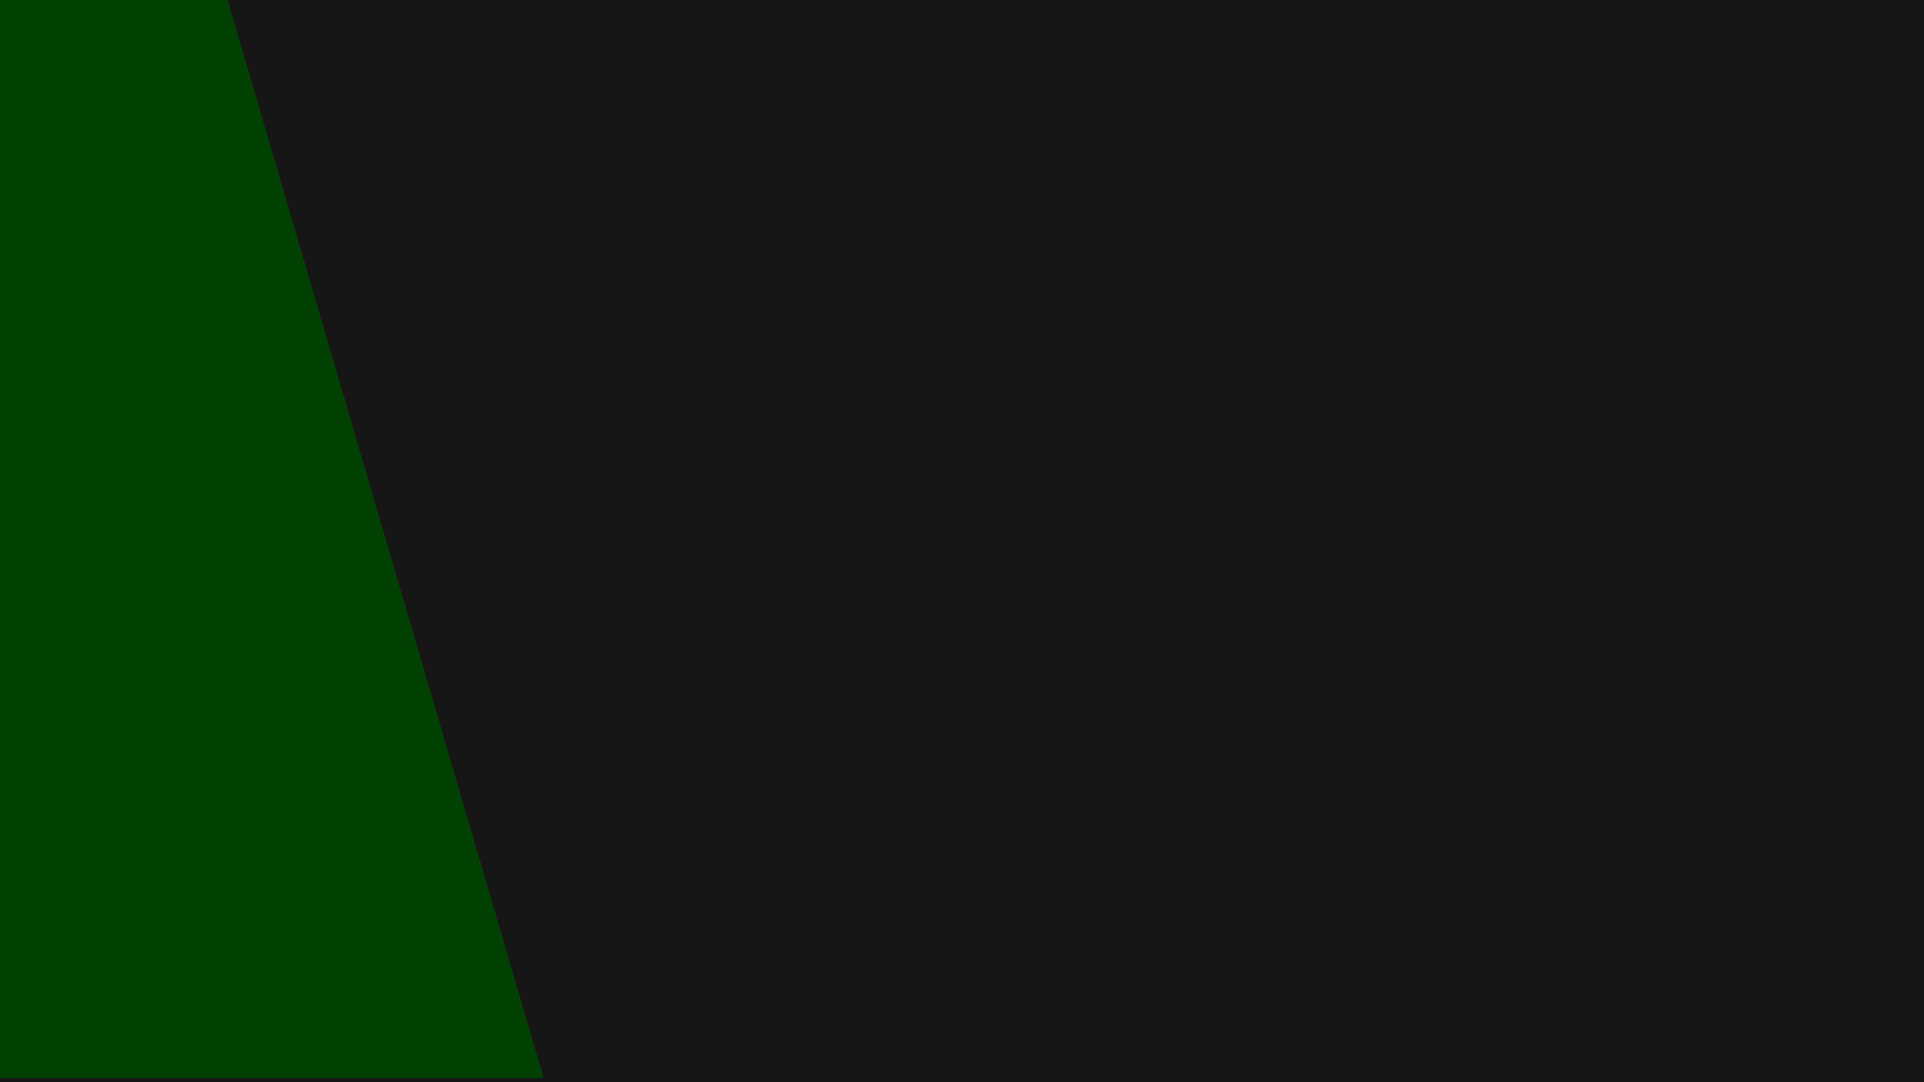
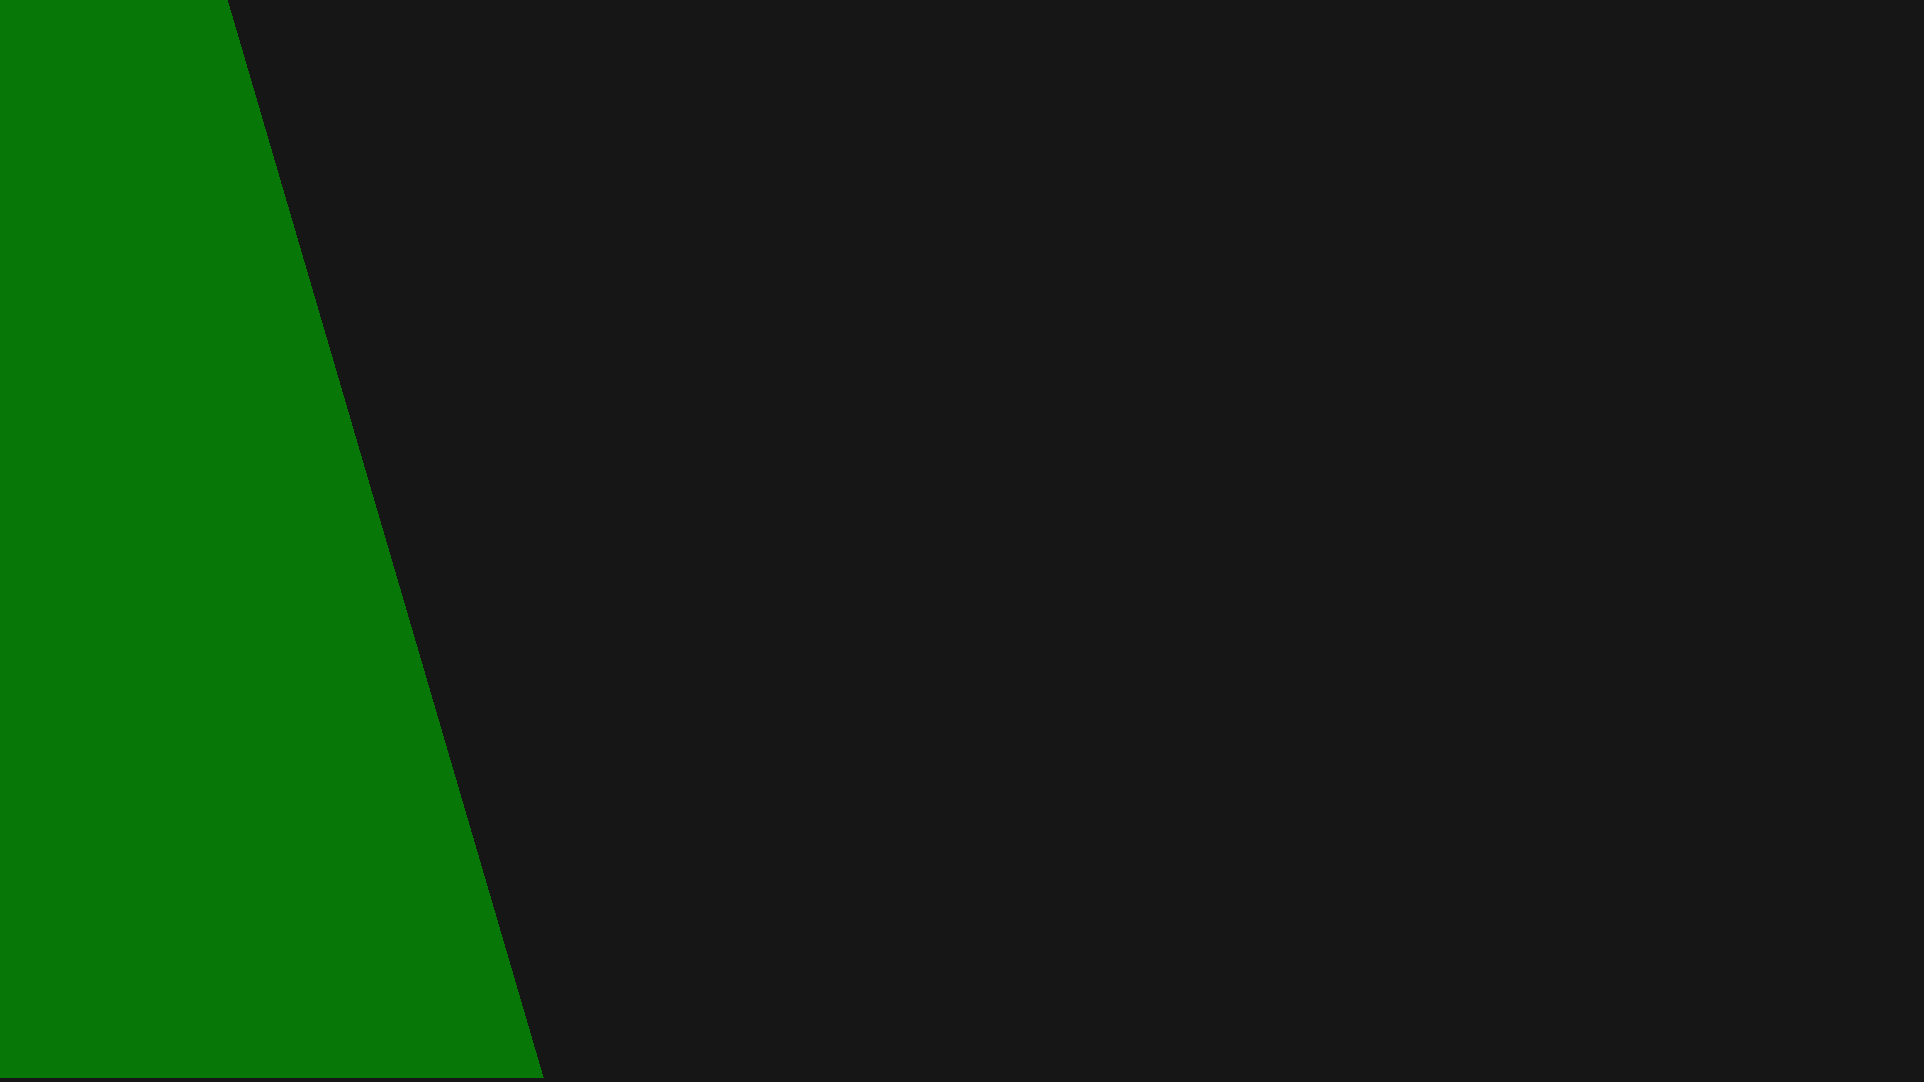
added name and changed color

Changed region(s): [[0.0, 0.0, 0.2807, 1.0]]

diff --git a/src/components/Navbar.js b/src/components/Navbar.js
@@ -15,7 +15,7 @@ function Navbar() {
           <li
             className={`w-[50px] h-[50px] ${
               currentlyActive === "home" ? "bg-primary" : "bg-inActive"
-            } rounded-full m-auto mb-3 flex justify-center `}
+            } rounded-full m-auto mb-5 flex justify-center hover:bg-primary`}
           >
             <FaHome size={"1.3em"} color={"#ffffff"} className="m-auto" />
           </li>
@@ -31,7 +31,7 @@ function Navbar() {
           <li
             className={`w-[50px] h-[50px] ${
               currentlyActive === "about" ? "bg-primary" : "bg-inActive"
-            } rounded-full m-auto mb-3 flex justify-center `}
+            } rounded-full m-auto mb-5 flex justify-center hover:bg-primary`}
           >
             <FaUser size={"1.3em"} color={"#ffffff"} className="m-auto" />
           </li>
@@ -47,7 +47,7 @@ function Navbar() {
           <li
             className={`w-[50px] h-[50px] ${
               currentlyActive === "portfolio" ? "bg-primary" : "bg-inActive"
-            } rounded-full m-auto mb-3 flex justify-center `}
+            } rounded-full m-auto mb-5 flex justify-center hover:bg-primary`}
           >
             <FaBriefcase size={"1.3em"} color={"#ffffff"} className="m-auto" />
           </li>
@@ -62,7 +62,7 @@ function Navbar() {
           <li
             className={`w-[50px] h-[50px] ${
               currentlyActive === "contact" ? "bg-primary" : "bg-inActive"
-            } rounded-full m-auto flex justify-center `}
+            } rounded-full m-auto flex justify-center hover:bg-primary`}
           >
             <FaEnvelope size={"1.3em"} color={"#ffffff"} className="m-auto" />
           </li>

diff --git a/public/index.html b/public/index.html
@@ -24,6 +24,12 @@
       work correctly both with client-side routing and a non-root public URL.
       Learn how to configure a non-root public URL by running `npm run build`.
     -->
+    <link rel="preconnect" href="https://fonts.googleapis.com" />
+    <link rel="preconnect" href="https://fonts.gstatic.com" crossorigin />
+    <link
+      href="https://fonts.googleapis.com/css2?family=Poppins:wght@300;400&display=swap"
+      rel="stylesheet"
+    />
     <title>React App</title>
   </head>
   <body>

diff --git a/src/components/MainPage.js b/src/components/MainPage.js
@@ -6,8 +6,10 @@ function MainPage() {
       <div className="flex justify-center w-1/2 h-screen">
         <img src={me} alt="me" className="my-auto rounded-3xl w-1/2 " />
       </div>
-      <div className="w-1/2">
-        <h1></h1>
+      <div className="w-1/2 flex justify-center items-center">
+        <h1>
+          <span className="text-textColor text-[51px] ">I'm Gerardo Garza</span>
+        </h1>
       </div>
     </div>
   );

diff --git a/tailwind.config.js b/tailwind.config.js
@@ -3,8 +3,9 @@ module.exports = {
   content: ["./src/**/*.{js,jsx,ts,tsx}"],
   theme: {
     colors: {
-      primary: "#004000",
+      primary: "#077707",
       inActive: "#353535",
+      textColor: "#077707",
     },
     extend: {},
   },

diff --git a/src/index.css b/src/index.css
@@ -7,6 +7,7 @@
   padding: 0;
   -ms-overflow-style: none; /* IE and Edge */
   scrollbar-width: none; /* Firefox */
+  font-family: "Poppins", sans-serif;
 }
 
 body {
